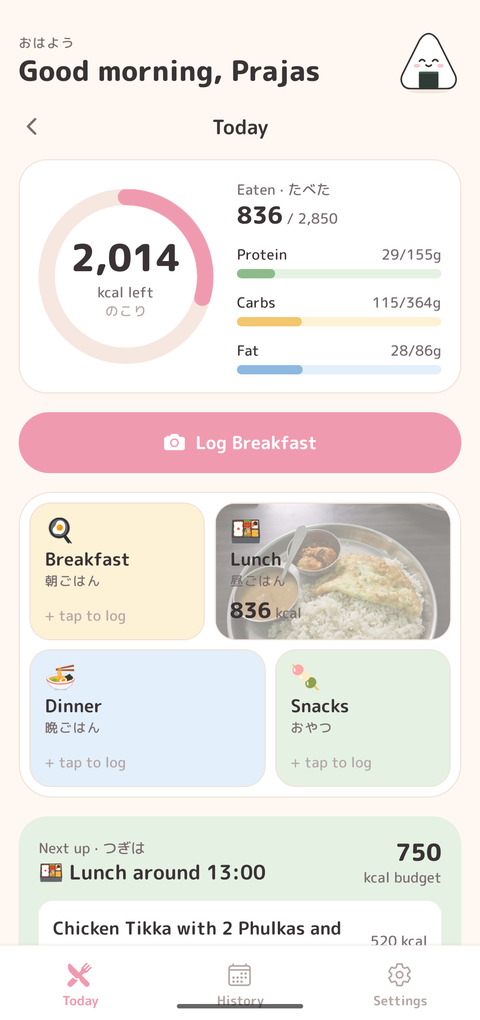
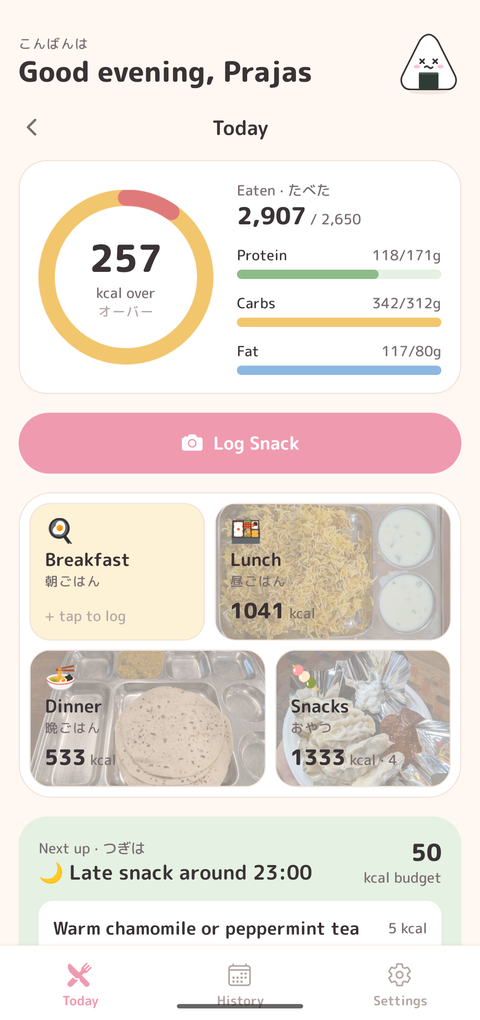
README: real-day screenshots + IIIT-H mess mode screens
Retake Today, meal detail, review, next-up, history and settings with a real
day at the Kadamba mess (body stats and key fragments blurred), and add the
mess card, dinner menu, mess picker and mess settings screenshots.

diff --git a/README.md b/README.md
@@ -44,6 +44,7 @@ And when the free Gemini API says *"429: quota exceeded"*, you're still not stuc
 ## 🎀 UI workflow ｜ つかいかた
 
 > All screenshots are in ☀ **Washi** (light) mode. There's also a cozy 🌙 **Yoru** (dark) mode!
+> The Today, meal, history and mess screenshots are from a real day of eating at IIIT-H's Kadamba mess 🍛
 
 ### ① First launch: say hi to your onigiri ｜ はじめまして
 
@@ -76,7 +77,7 @@ Gemini returns every item with portion, kcal, and macros. Tap **+ / −** to cha
 
 <table>
   <tr>
-    <td align="center"><img src="docs/screenshots/09-review.png" width="200" /><br/><sub><b>Review items</b> なかみ</sub></td>
+    <td align="center"><img src="docs/screenshots/09-review.png" width="200" /><br/><sub><b>Split &amp; editable items</b> なかみ</sub></td>
     <td align="center"><img src="docs/screenshots/10-next-up.png" width="200" /><br/><sub><b>Next up</b> つぎは</sub></td>
   </tr>
 </table>
@@ -88,8 +89,8 @@ The calorie ring shows how much is left today (のこり), with soft macro bars 
 <table>
   <tr>
     <td align="center"><img src="docs/screenshots/05-today-empty.png" width="200" /><br/><sub><b>Empty day</b> まだなにも…</sub></td>
-    <td align="center"><img src="docs/screenshots/11-today.png" width="200" /><br/><sub><b>After lunch</b> いただきました</sub></td>
-    <td align="center"><img src="docs/screenshots/12-meal-detail.png" width="200" /><br/><sub><b>Meal detail</b> ごはんのなかみ</sub></td>
+    <td align="center"><img src="docs/screenshots/11-today.png" width="200" /><br/><sub><b>A real mess day</b> いただきました</sub></td>
+    <td align="center"><img src="docs/screenshots/12-meal-detail.png" width="200" /><br/><sub><b>Biryani, split up</b> ごはんのなかみ</sub></td>
   </tr>
 </table>
 
@@ -159,6 +160,15 @@ At an IIIT Hyderabad mess, BentoMeter can fetch that meal's menu from [dining.ii
 4. **(Optional) add your dining-portal key** in the same Settings card. The dropdown then starts on the mess you're registered at, shows when you checked in, and adds any extras you bought. Kadamba dinner also knows about its 2-egg omelette extra.
 
 The menu reaches every engine: the Gemini API, the chat-app prompt and the on-device model (a shorter version for that one).
+
+<table>
+  <tr>
+    <td align="center"><img src="docs/screenshots/26-mess-card.png" width="200" /><br/><sub><b>At the mess</b> しょくどう</sub></td>
+    <td align="center"><img src="docs/screenshots/27-mess-menu.png" width="200" /><br/><sub><b>Tonight's menu</b> こんばんのメニュー</sub></td>
+    <td align="center"><img src="docs/screenshots/28-mess-picker.png" width="200" /><br/><sub><b>Which mess?</b> どこ？</sub></td>
+    <td align="center"><img src="docs/screenshots/29-settings-mess.png" width="200" /><br/><sub><b>Settings</b> せってい</sub></td>
+  </tr>
+</table>
 
 **🔌 Off campus?** The dining portal only works on the campus network or the **IIIT VPN**. One download saves the **whole week's menu**, so turning the VPN on once a week is enough. The card shows when the menu was saved. If a day is missing or the menu looks different, turn the VPN on and tap **↻** on the card (or **Refresh this week's menu** in Settings) to fetch the menu, your registration and extras again. If the menu can't load, analysis carries on without it.
 
